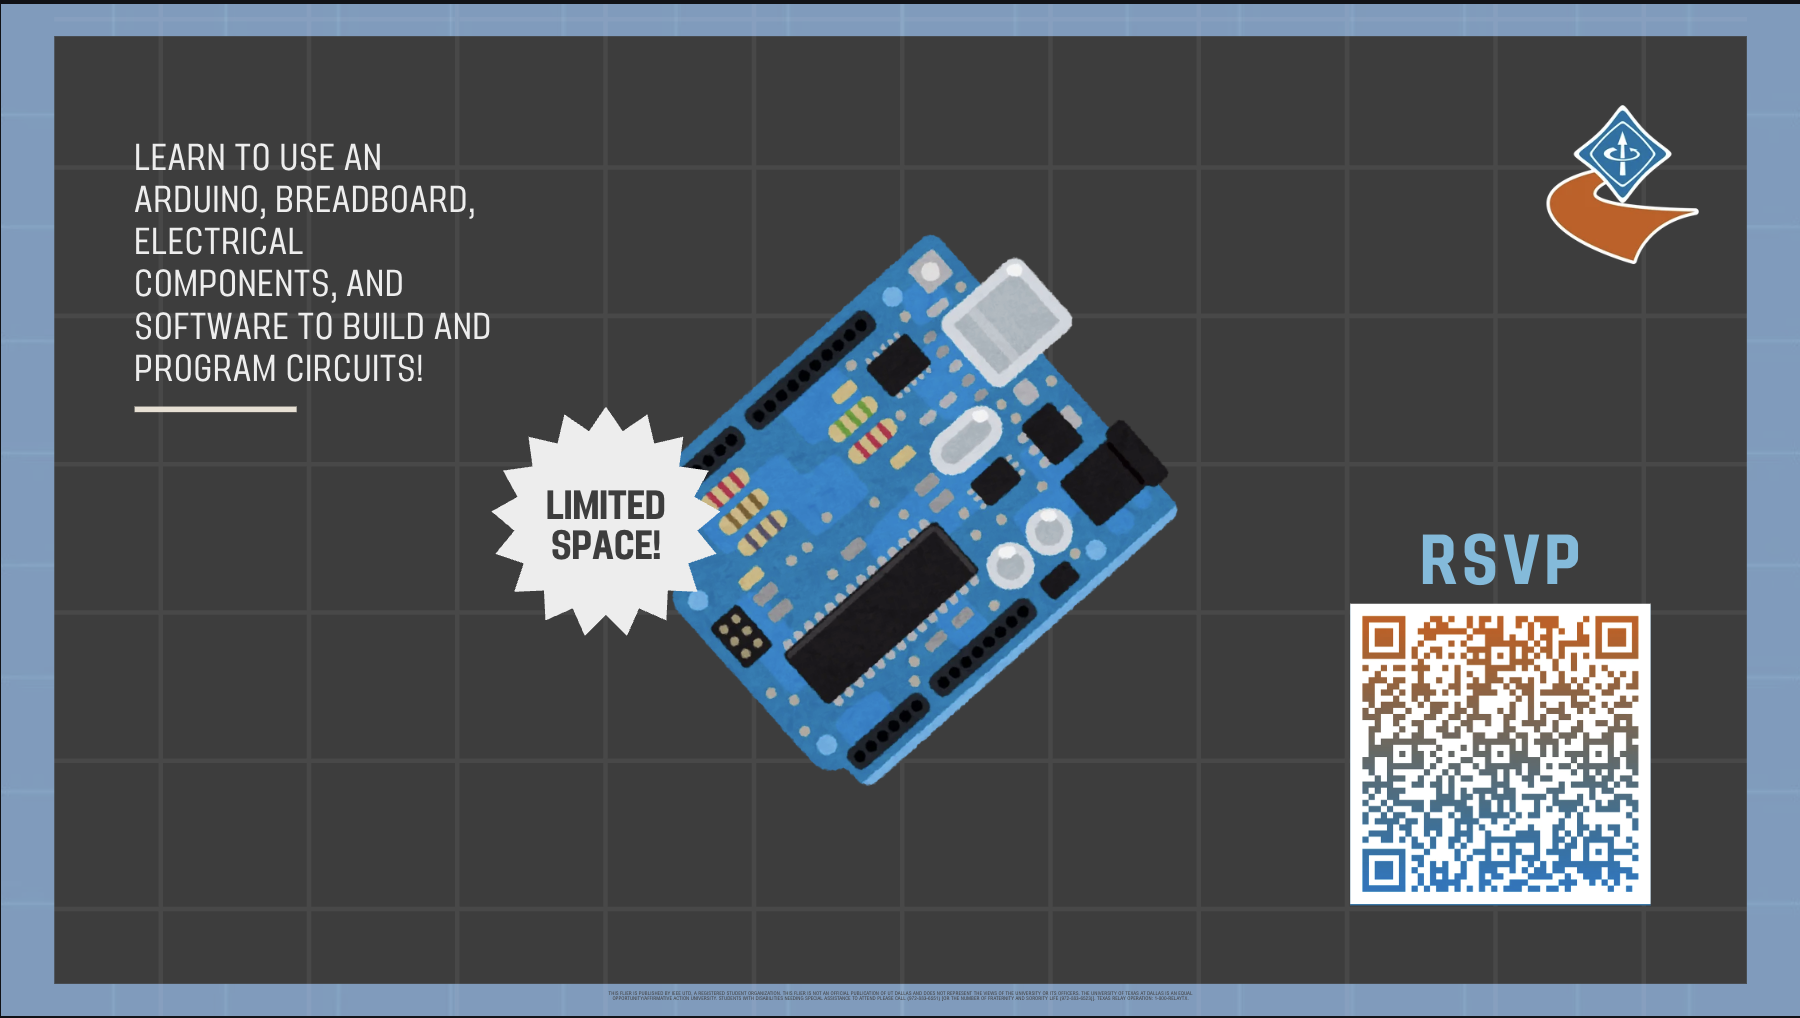
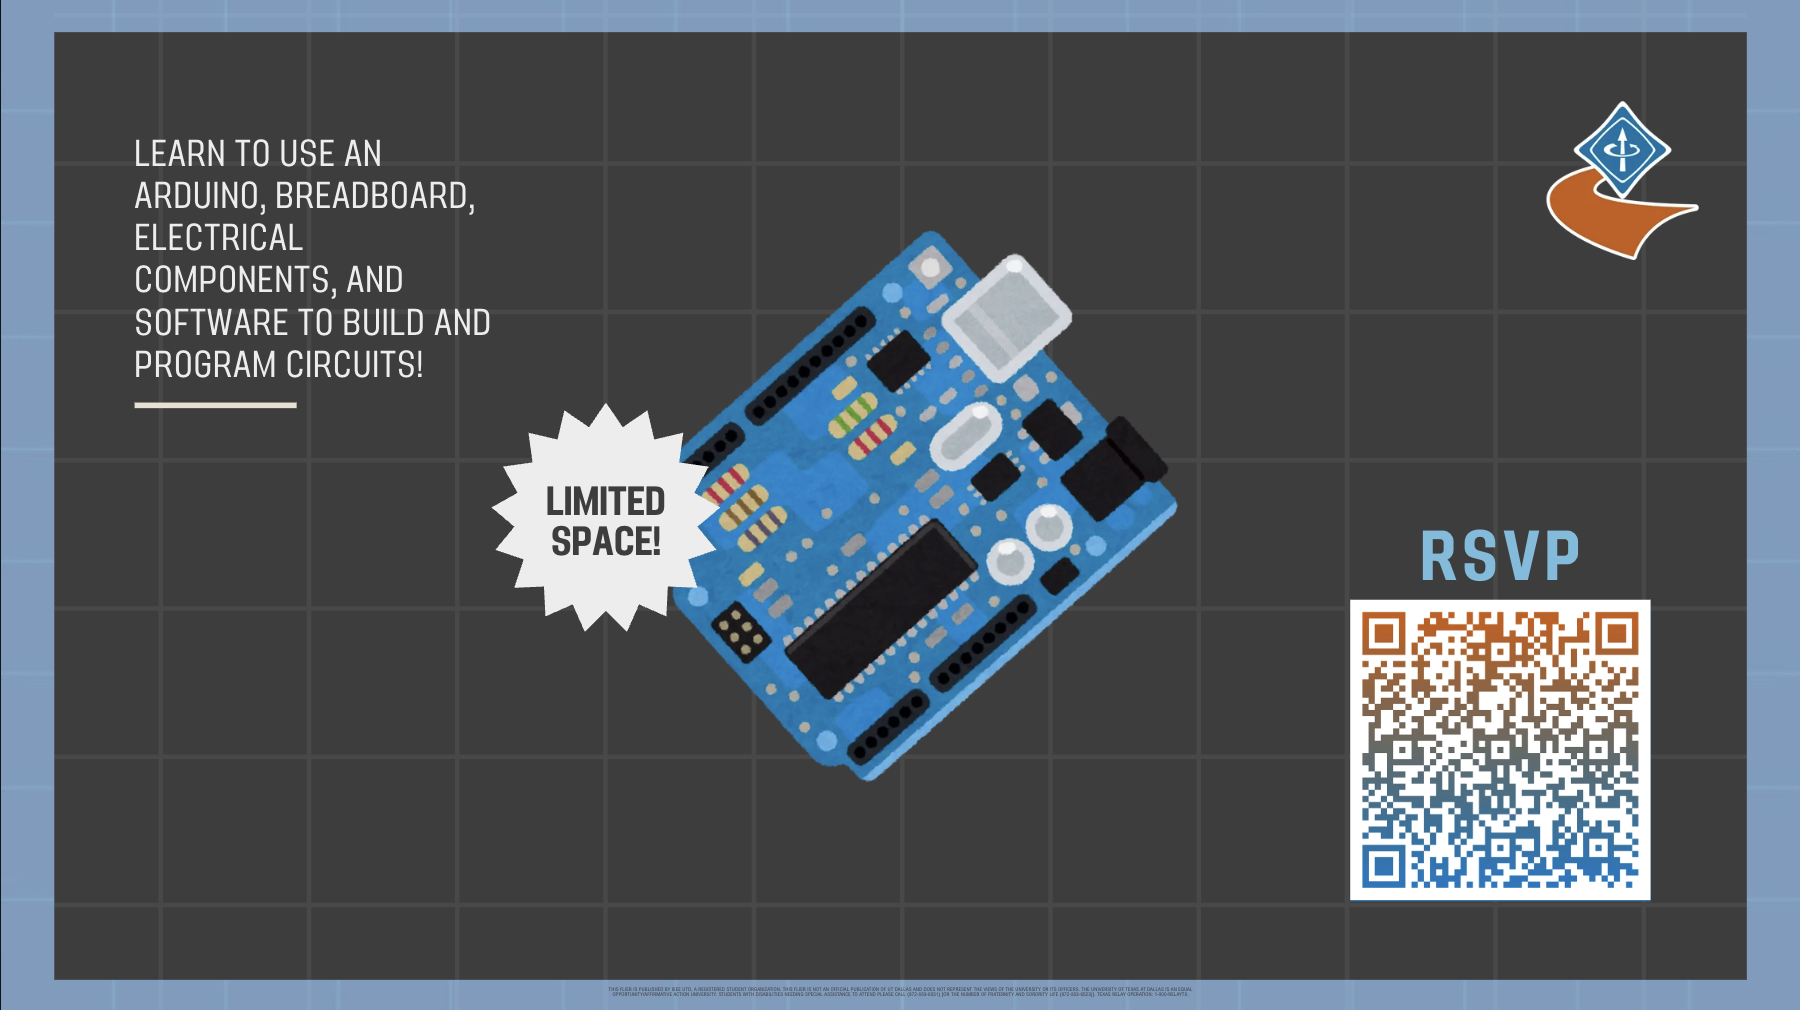
fixes

diff --git a/src/events-page/components/events-carousel.module.css b/src/events-page/components/events-carousel.module.css
@@ -54,7 +54,7 @@
   width: 100%;
   /* Matches the flyer's native ratio so its top/bottom border stays fully
      visible instead of being cropped off by a fixed-height cover fit. */
-  aspect-ratio: 1800 / 1018;
+  aspect-ratio: 1800 / 1010;
   object-fit: cover;
 }
 
